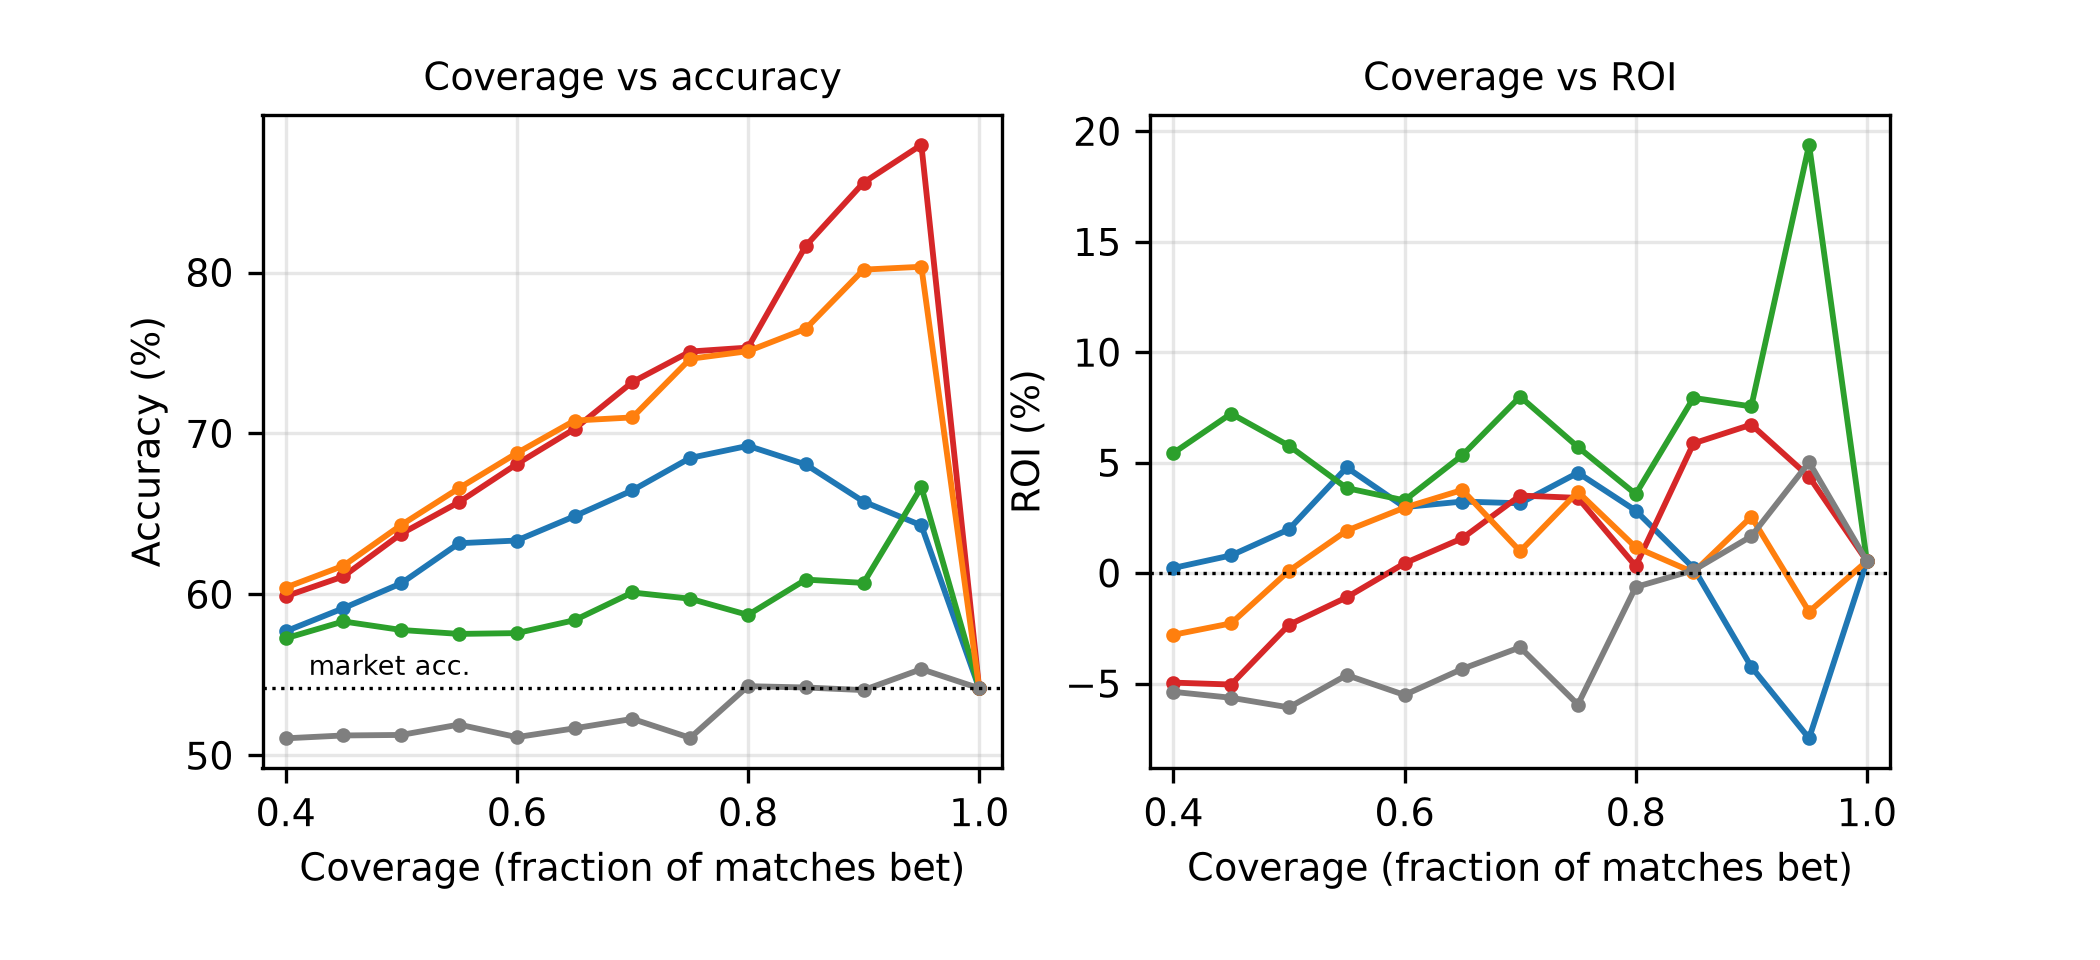
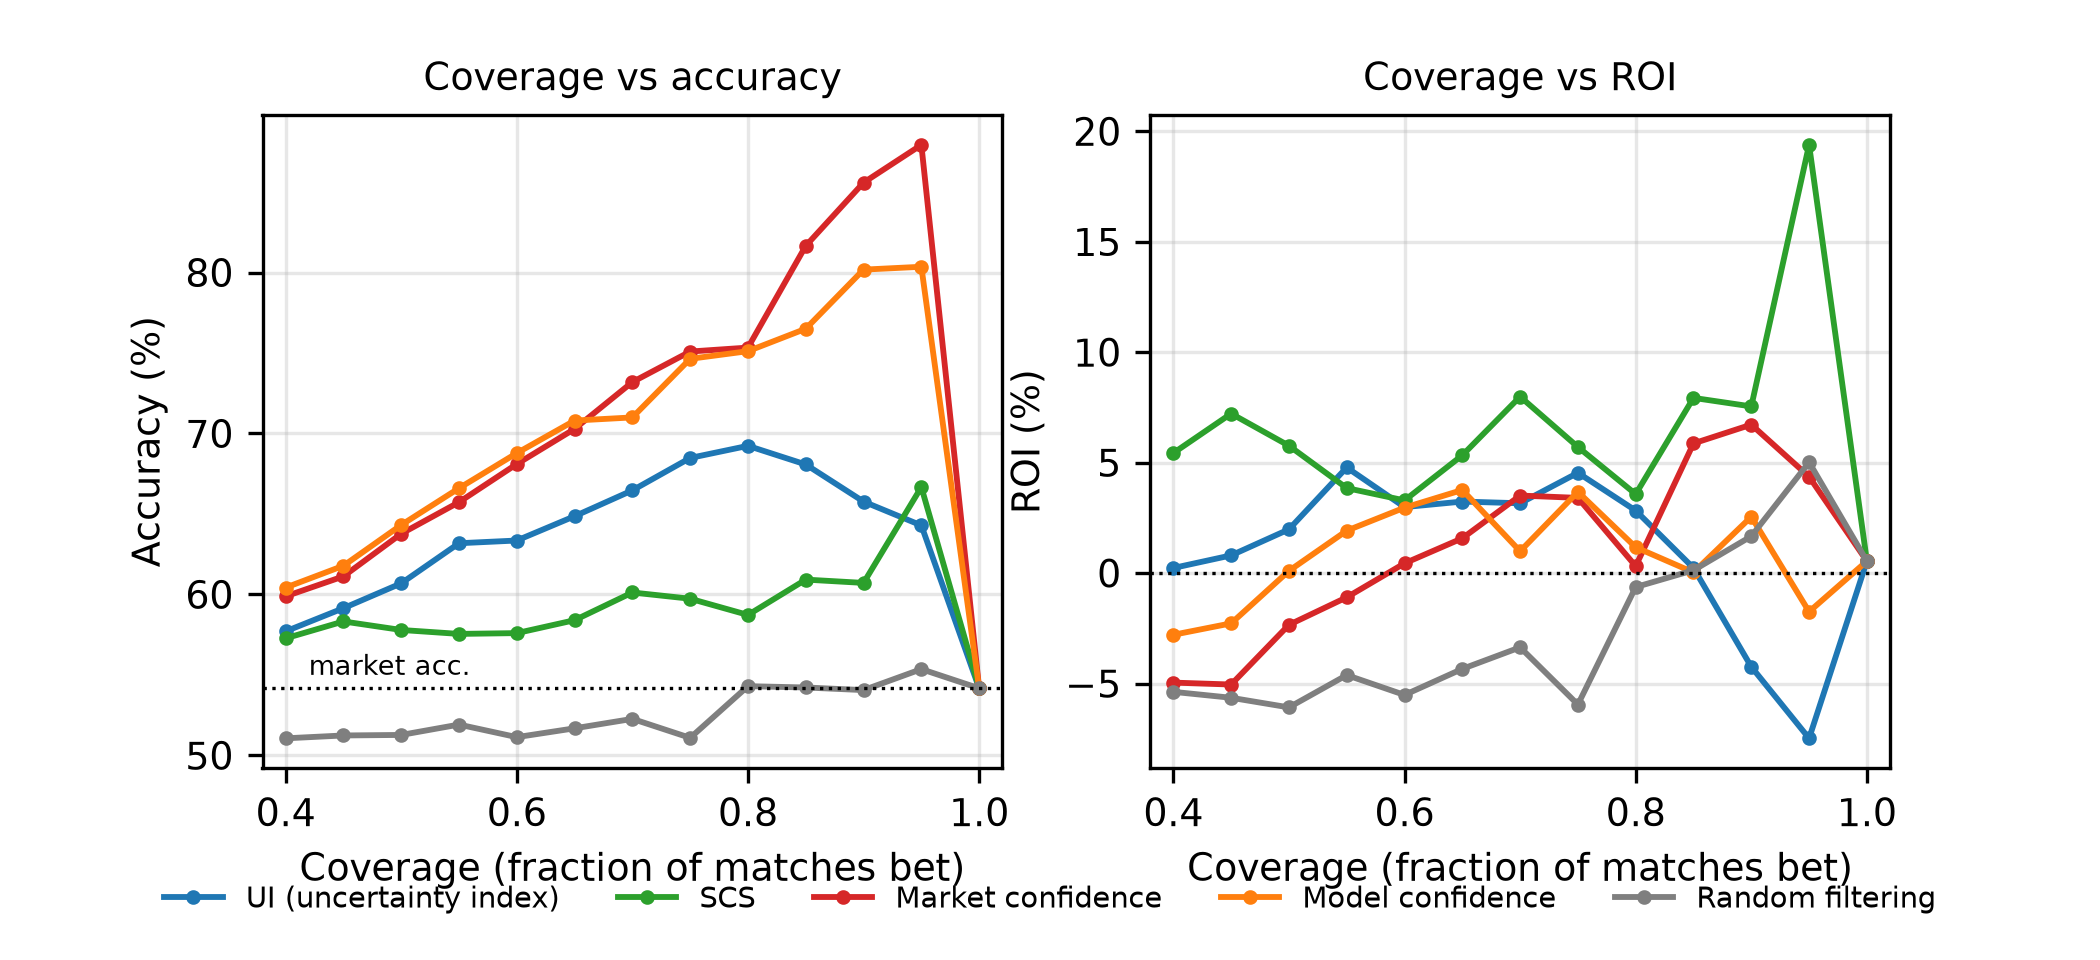
fig6 legend bbox fix (visible bottom legend)

diff --git a/src/make_figures.py b/src/make_figures.py
@@ -247,9 +247,9 @@ for ax, ylab, title in [(axes[0], "Accuracy (%)", "Coverage vs accuracy"),
     ax.set_title(title, fontsize=9)
     ax.set_xlim(0.38, 1.02)
     ax.grid(alpha=0.3)
-# 共用底部图例，避免遮挡任意曲线
+# 共用底部图例（放在 axes 下方的空白区，避免遮挡任意曲线）
 fig.legend(handles, labels, loc="lower center", ncol=5, fontsize=7,
-           frameon=False, bbox_to_anchor=(0.5, -0.06))
+           frameon=False, bbox_to_anchor=(0.5, 0.02))
 fig.subplots_adjust(bottom=0.20)
 plt.savefig(os.path.join(OUT, "fig6_coverage.png"))
 plt.close()
